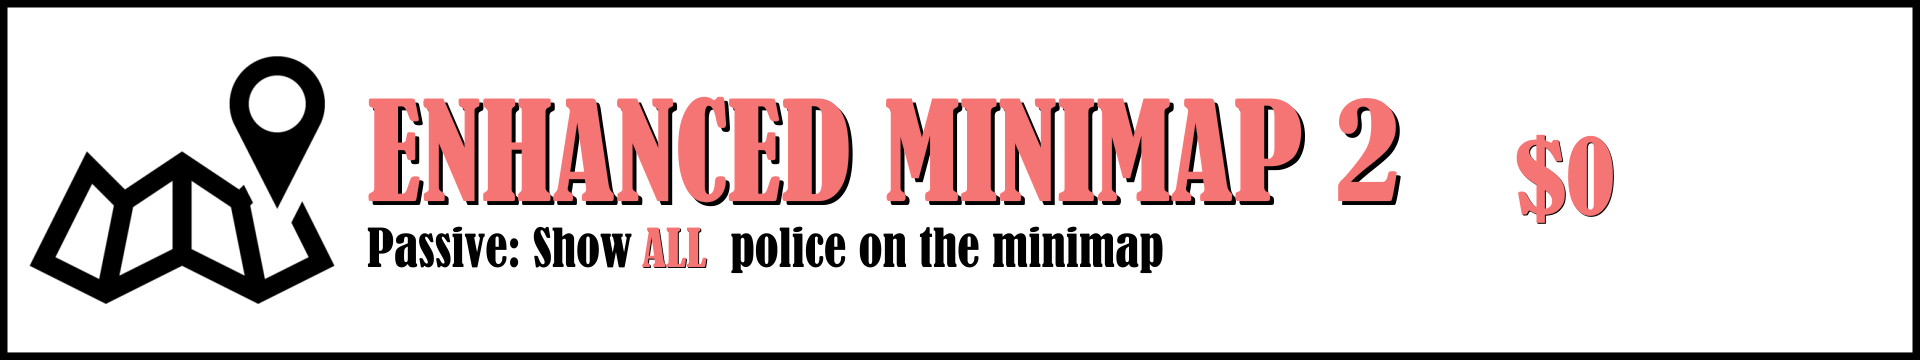
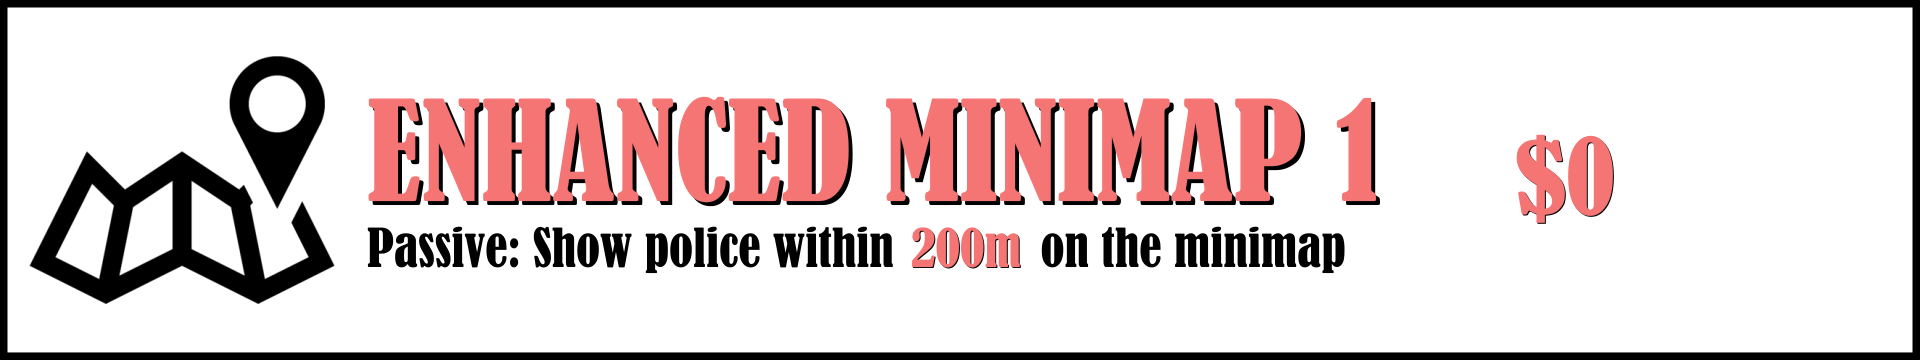
adjusted money economy, game takes around 10 mins to complete

Changed region(s): [[0.3125, 0.6111, 0.7188, 0.7639], [0.6875, 0.275, 0.75, 0.5806]]

diff --git a/AL_CARPONE/main.cpp b/AL_CARPONE/main.cpp
@@ -130,8 +130,8 @@ int main()
 	alarmChance.menuElements.push_back(Model("models/garageMenu/robbery_upgrades/alarm_chance_2.obj"));
 	alarmChance.menuElements.push_back(Model("models/garageMenu/robbery_upgrades/alarm_chance_maxed.obj"));
 	alarmChance.upgradeInfo.clear();
-	alarmChance.upgradeInfo.push_back(std::make_tuple(0.25f, true, 0));
-	alarmChance.upgradeInfo.push_back(std::make_tuple(0.5f, true, 0));
+	alarmChance.upgradeInfo.push_back(std::make_tuple(0.25f, true, 5625));
+	alarmChance.upgradeInfo.push_back(std::make_tuple(0.5f, true, 15000));
 	robbingGarage.upgradeList.push_back(alarmChance);
 	Upgrade detectionRadius(UPGRADE_TYPE::ROBBERY, UPGRADE_SPECIFIER::DETECTION_RADIUS, 5);
 	detectionRadius.menuElements.push_back(Model("models/garageMenu/robbery_upgrades/detection_radius_1.obj"));
@@ -141,19 +141,22 @@ int main()
 	detectionRadius.menuElements.push_back(Model("models/garageMenu/robbery_upgrades/detection_radius_5.obj"));
 	detectionRadius.menuElements.push_back(Model("models/garageMenu/robbery_upgrades/detection_radius_maxed.obj"));
 	detectionRadius.upgradeInfo.clear();
-	detectionRadius.upgradeInfo.push_back(std::make_tuple(0.1f, true, 0/*15000*/));
-	detectionRadius.upgradeInfo.push_back(std::make_tuple(0.2f, true, 0/*30000*/));
-	detectionRadius.upgradeInfo.push_back(std::make_tuple(0.3f, true, 0/*60000*/));
-	detectionRadius.upgradeInfo.push_back(std::make_tuple(0.4f, true, 0/*90000*/));
-	detectionRadius.upgradeInfo.push_back(std::make_tuple(0.5f, true, 0/*110000*/));
+	detectionRadius.upgradeInfo.push_back(std::make_tuple(0.1f, true, 2500));
+	detectionRadius.upgradeInfo.push_back(std::make_tuple(0.2f, true, 2500));
+	detectionRadius.upgradeInfo.push_back(std::make_tuple(0.3f, true, 5625));
+	detectionRadius.upgradeInfo.push_back(std::make_tuple(0.4f, true, 5625));
+	detectionRadius.upgradeInfo.push_back(std::make_tuple(0.5f, true, 15000));
 	robbingGarage.upgradeList.push_back(detectionRadius);
-	Upgrade policeOnMap(UPGRADE_TYPE::ROBBERY, UPGRADE_SPECIFIER::MINIMAP, 2);
+	Upgrade policeOnMap(UPGRADE_TYPE::ROBBERY, UPGRADE_SPECIFIER::MINIMAP, 3);
 	policeOnMap.menuElements.push_back(Model("models/garageMenu/robbery_upgrades/enhanced_minimap_1.obj"));
 	policeOnMap.menuElements.push_back(Model("models/garageMenu/robbery_upgrades/enhanced_minimap_2.obj"));
+	policeOnMap.menuElements.push_back(Model("models/garageMenu/robbery_upgrades/enhanced_minimap_3.obj"));
 	policeOnMap.menuElements.push_back(Model("models/garageMenu/robbery_upgrades/enhanced_minimap_maxed.obj"));
 	policeOnMap.upgradeInfo.clear();
-	policeOnMap.upgradeInfo.push_back(std::make_tuple(200.f, false, 0));
-	policeOnMap.upgradeInfo.push_back(std::make_tuple(10000.f, false, 0));
+	policeOnMap.upgradeInfo.push_back(std::make_tuple(0.f, false, 2500));
+	policeOnMap.upgradeInfo.push_back(std::make_tuple(200.f, false, 5625));
+	policeOnMap.upgradeInfo.push_back(std::make_tuple(0.f, false, 15000));
+	//policeOnMap.upgradeInfo.push_back(std::make_tuple(10000.f, false, 15000));
 	robbingGarage.upgradeList.push_back(policeOnMap);
 	state.buildings[BUILDINGS::GARAGE1] = &robbingGarage;
 
@@ -164,9 +167,9 @@ int main()
 	handlingGarage.selectBot = select3;
 	Upgrade roadFriction(UPGRADE_TYPE::HANDLING, UPGRADE_SPECIFIER::TIRE_FRICTION, 3);
 	roadFriction.upgradeInfo.clear();
-	roadFriction.upgradeInfo.push_back(std::make_tuple(0.1f, true, 0/*10000*/));
-	roadFriction.upgradeInfo.push_back(std::make_tuple(0.2f, true, 0/*65000*/));
-	roadFriction.upgradeInfo.push_back(std::make_tuple(0.3f, true, 0/*105000*/));
+	roadFriction.upgradeInfo.push_back(std::make_tuple(0.1f, true, 2500));
+	roadFriction.upgradeInfo.push_back(std::make_tuple(0.2f, true, 5625));
+	roadFriction.upgradeInfo.push_back(std::make_tuple(0.3f, true, 15000));
 	roadFriction.menuElements.push_back(Model("models/garageMenu/handling_upgrades/tire_friction_1.obj"));
 	roadFriction.menuElements.push_back(Model("models/garageMenu/handling_upgrades/tire_friction_2.obj"));
 	roadFriction.menuElements.push_back(Model("models/garageMenu/handling_upgrades/tire_friction_3.obj"));
@@ -174,15 +177,15 @@ int main()
 	handlingGarage.upgradeList.push_back(roadFriction);
 	Upgrade steerAngle(UPGRADE_TYPE::HANDLING, UPGRADE_SPECIFIER::TURN_RADIUS, 2);
 	steerAngle.upgradeInfo.clear();
-	steerAngle.upgradeInfo.push_back(std::make_tuple(1.f / 3.f, true, 0/*12500*/));
-	steerAngle.upgradeInfo.push_back(std::make_tuple(0.9999f, true, 0/*50000*/));
+	steerAngle.upgradeInfo.push_back(std::make_tuple(1.f / 3.f, true, 2500));
+	steerAngle.upgradeInfo.push_back(std::make_tuple(0.9999f, true, 15000));
 	steerAngle.menuElements.push_back(Model("models/garageMenu/handling_upgrades/steer_angle_1.obj"));
 	steerAngle.menuElements.push_back(Model("models/garageMenu/handling_upgrades/steer_angle_2.obj"));
 	steerAngle.menuElements.push_back(Model("models/garageMenu/handling_upgrades/steer_angle_maxed.obj"));
 	handlingGarage.upgradeList.push_back(steerAngle);
 	Upgrade flipOver(UPGRADE_TYPE::HANDLING, UPGRADE_SPECIFIER::CAR_FLIP, 1);
 	flipOver.upgradeInfo.clear();
-	flipOver.upgradeInfo.push_back(std::make_tuple(0.f, true, 0/*100000*/));
+	flipOver.upgradeInfo.push_back(std::make_tuple(0.f, true, 5625));
 	flipOver.menuElements.push_back(Model("models/garageMenu/handling_upgrades/car_flipper.obj"));
 	flipOver.menuElements.push_back(Model("models/garageMenu/handling_upgrades/car_flipper_maxed.obj"));
 	handlingGarage.upgradeList.push_back(flipOver);
@@ -193,27 +196,25 @@ int main()
 	engineGarage.selectTop = select1;
 	engineGarage.selectMid = select2;
 	engineGarage.selectBot = select3;
-	Upgrade topSpeed(UPGRADE_TYPE::ENGINE, UPGRADE_SPECIFIER::TOP_SPEED, 6);
+	Upgrade topSpeed(UPGRADE_TYPE::ENGINE, UPGRADE_SPECIFIER::TOP_SPEED, 5);
 	topSpeed.upgradeInfo.clear();
-	topSpeed.upgradeInfo.push_back(std::make_tuple(0.02f, true, 0/*11250*/));
-	topSpeed.upgradeInfo.push_back(std::make_tuple(0.04f, true, 0/*17500*/));
-	topSpeed.upgradeInfo.push_back(std::make_tuple(0.08f, true, 0/*30000*/));
-	topSpeed.upgradeInfo.push_back(std::make_tuple(0.16f, true, 0/*55000*/));
-	topSpeed.upgradeInfo.push_back(std::make_tuple(0.32f, true, 0/*82500*/));
-	topSpeed.upgradeInfo.push_back(std::make_tuple(0.50f, true, 0/*105000*/));
+	topSpeed.upgradeInfo.push_back(std::make_tuple(0.1f, true, 2500));
+	topSpeed.upgradeInfo.push_back(std::make_tuple(0.2f, true, 2500));
+	topSpeed.upgradeInfo.push_back(std::make_tuple(0.3f, true, 5625));
+	topSpeed.upgradeInfo.push_back(std::make_tuple(0.4f, true, 15000));
+	topSpeed.upgradeInfo.push_back(std::make_tuple(0.5f, true, 15000));
 	topSpeed.menuElements.push_back(Model("models/garageMenu/engine_upgrades/top_speed_1.obj"));
 	topSpeed.menuElements.push_back(Model("models/garageMenu/engine_upgrades/top_speed_2.obj"));
 	topSpeed.menuElements.push_back(Model("models/garageMenu/engine_upgrades/top_speed_3.obj"));
 	topSpeed.menuElements.push_back(Model("models/garageMenu/engine_upgrades/top_speed_4.obj"));
 	topSpeed.menuElements.push_back(Model("models/garageMenu/engine_upgrades/top_speed_5.obj"));
-	topSpeed.menuElements.push_back(Model("models/garageMenu/engine_upgrades/top_speed_6.obj"));
 	topSpeed.menuElements.push_back(Model("models/garageMenu/engine_upgrades/top_speed_maxed.obj"));
 	engineGarage.upgradeList.push_back(topSpeed);
 	Upgrade gearSpeed(UPGRADE_TYPE::ENGINE, UPGRADE_SPECIFIER::GEAR_SPEED, 3);
 	gearSpeed.upgradeInfo.clear();
-	gearSpeed.upgradeInfo.push_back(std::make_tuple(1.f / 9.f, true, 0/*20000*/));
-	gearSpeed.upgradeInfo.push_back(std::make_tuple(2.f / 9.f, true, 0/*30000*/));
-	gearSpeed.upgradeInfo.push_back(std::make_tuple(3.f / 9.f, true, 0/*50000*/));
+	gearSpeed.upgradeInfo.push_back(std::make_tuple(1.f / 9.f, true, 2500));
+	gearSpeed.upgradeInfo.push_back(std::make_tuple(2.f / 9.f, true, 5625));
+	gearSpeed.upgradeInfo.push_back(std::make_tuple(3.f / 9.f, true, 15000));
 	gearSpeed.menuElements.push_back(Model("models/garageMenu/engine_upgrades/gear_shift_speed_1.obj"));
 	gearSpeed.menuElements.push_back(Model("models/garageMenu/engine_upgrades/gear_shift_speed_2.obj"));
 	gearSpeed.menuElements.push_back(Model("models/garageMenu/engine_upgrades/gear_shift_speed_3.obj"));

diff --git a/AL_CARPONE/Garage.cpp b/AL_CARPONE/Garage.cpp
@@ -75,6 +75,7 @@ void Garage::handleInput(GLFWwindow* window, State* state, Player* player) {
 					for (PoliceCar* p : state->activePoliceVehicles) p->detectionRadius = upgraded;
 				}
 				else if (u.specifier == UPGRADE_SPECIFIER::MINIMAP) {
+					++player->minimapMode;
 					player->drawRadius = u.delta(u.tier);
 					std::cout << u.delta(u.tier) << std::endl;
 					if (u.tier == 0) std::cout << "police within " << player->drawRadius << "m visible on minimap" << std::endl;
@@ -133,20 +134,26 @@ void Garage::handleInput(GLFWwindow* window, State* state, Player* player) {
 			}
 
 			++player->numUpgradesPurchased;
-			if (player->numUpgradesPurchased < 16) {
-				if (player->numUpgradesPurchased == 5) {
-					std::cout << "upgrading bonus bank earnings multiplier from 0x to 1.25x" << std::endl;
-					player->cashRobbedPerFrame = player->basecashRobbedPerFrame * 1.25f;
-				}
-				else if (player->numUpgradesPurchased == 10) {
-					std::cout << "upgrading bonus bank earnings multiplier from 1.25x to 5x" << std::endl;
-					player->cashRobbedPerFrame = player->basecashRobbedPerFrame * 5.f;
-				}
-				else if (player->numUpgradesPurchased == 15) {
-					std::cout << "upgrading bonus bank earnings multiplier from 5x to 20x" << std::endl;
-					player->cashRobbedPerFrame = player->basecashRobbedPerFrame * 20.f;
-				}
+			if (player->numUpgradesPurchased <= 5) {
+				//std::cout << "upgrading bonus bank earnings multiplier from 0x to 1.25x" << std::endl;
+				std::cout << "upgrading bank earnings from " << player->cashRobbedPerFrame << " to " << player->cashRobbedPerFrame + player->basecashRobbedPerFrame * .25f << std::endl;
+				player->cashRobbedPerFrame += player->basecashRobbedPerFrame * .25f;
 			}
+			else if (player->numUpgradesPurchased <= 10) {
+				//std::cout << "upgrading bonus bank earnings multiplier from 1.25x to 5x" << std::endl;
+				std::cout << "upgrading bank earnings from " << player->cashRobbedPerFrame << " to " << player->cashRobbedPerFrame + player->basecashRobbedPerFrame * .75f << std::endl;
+				player->cashRobbedPerFrame += player->basecashRobbedPerFrame * 0.75f;
+			}
+			else if (player->numUpgradesPurchased <= 15) {
+				//std::cout << "upgrading bonus bank earnings multiplier from 5x to 20x" << std::endl;
+				std::cout << "upgrading bank earnings from " << player->cashRobbedPerFrame << " to " << player->cashRobbedPerFrame + player->basecashRobbedPerFrame * 3.f << std::endl;
+				player->cashRobbedPerFrame += player->basecashRobbedPerFrame * 3.f;
+			}
+			else if (player->numUpgradesPurchased == 24) {
+				std::cout << "upgrading bonus bank earnings multiplier from 20x to 80x" << std::endl;
+				player->cashRobbedPerFrame = player->basecashRobbedPerFrame * 80.f;
+			}
+			
 
 			++upgradeList[currentSelection].tier;
 		}

diff --git a/AL_CARPONE/UI.cpp b/AL_CARPONE/UI.cpp
@@ -66,16 +66,33 @@ void UI::update(State* state, Player* player, GraphicsSystem* graphics) {
 	//player_movement = glm::rotate(player_movement, theta, out);
 	graphics->shader2D->setMat4("model", player_movement);
 	player_marker->Draw(*graphics->shader2D);
+	float closest = 9999.f;
 	for (PoliceCar* p : state->activePoliceVehicles) {
-		if (glm::distance(p->getPos(), player->getPos()) < player->drawRadius) {
-			player_movement = updateMarkerPos(p->getPos());	// Gets translation matrix
-			//glm::vec3 out(0, 0, -1);
-			//theta = atan2(glm::dot(glm::cross(p->getDir(), out), glm::vec3(0.f, 1.f, 0.f)), glm::dot(p->getDir(), out));
-			//player_movement = glm::rotate(player_movement, theta, out);
-			graphics->shader2D->setMat4("model", player_movement);
-			police_marker->Draw(*graphics->shader2D);
+		switch (player->minimapMode) {
+			case 1:
+				if (glm::distance(p->getPos(), player->getPos()) < closest) {
+					closest = glm::distance(p->getPos(), player->getPos());
+					player_movement = updateMarkerPos(p->getPos());	// Gets translation matrix
+					graphics->shader2D->setMat4("model", player_movement);
+				}
+				break;
+			case 2:
+				if (glm::distance(p->getPos(), player->getPos()) < player->drawRadius) {
+					player_movement = updateMarkerPos(p->getPos());	// Gets translation matrix
+					graphics->shader2D->setMat4("model", player_movement);
+					police_marker->Draw(*graphics->shader2D);
+				}
+				break;
+			case 3:
+				player_movement = updateMarkerPos(p->getPos());	// Gets translation matrix
+				graphics->shader2D->setMat4("model", player_movement);
+				police_marker->Draw(*graphics->shader2D);
+				break;
 		}
+		//if (glm::distance(p->getPos(), player->getPos()) < player->drawRadius) {
+		
 	}
+	if (player->minimapMode == 1) police_marker->Draw(*graphics->shader2D);
 
 	// Draw Popups if applicable
 	graphics->shader2D->setMat4("model", mat4(1.f));

diff --git a/AL_CARPONE/Player.h b/AL_CARPONE/Player.h
@@ -33,7 +33,7 @@ private:
 
 	bool detectable = true;					//Flag that specifies whether the player is detectable to enemies
 	VEHICLE_TYPE model_type = AL_CARPONE;	//Used for model switching when using the camouflage power
-	unsigned int cash = 100001;						//Amount of cash the player has on-hand. Private variable with accessors & mutators?
+	unsigned int cash = 0;						//Amount of cash the player has on-hand. Private variable with accessors & mutators?
 
 	double cashRateMultiplier = 1;
 
@@ -48,7 +48,7 @@ private:
 
 
 public:
-	float basecashRobbedPerFrame = 500;
+	float basecashRobbedPerFrame = 1000;
 	float cashRobbedPerFrame = basecashRobbedPerFrame;
 
 	float initAlarmChancePerCheck = 0.1f;
@@ -68,6 +68,7 @@ public:
 
 	bool canFlip = false;
 	float drawRadius = 0.f;
+	unsigned int minimapMode = 0;
 	unsigned int numUpgradesPurchased = 0;
 
 	Player() {}
